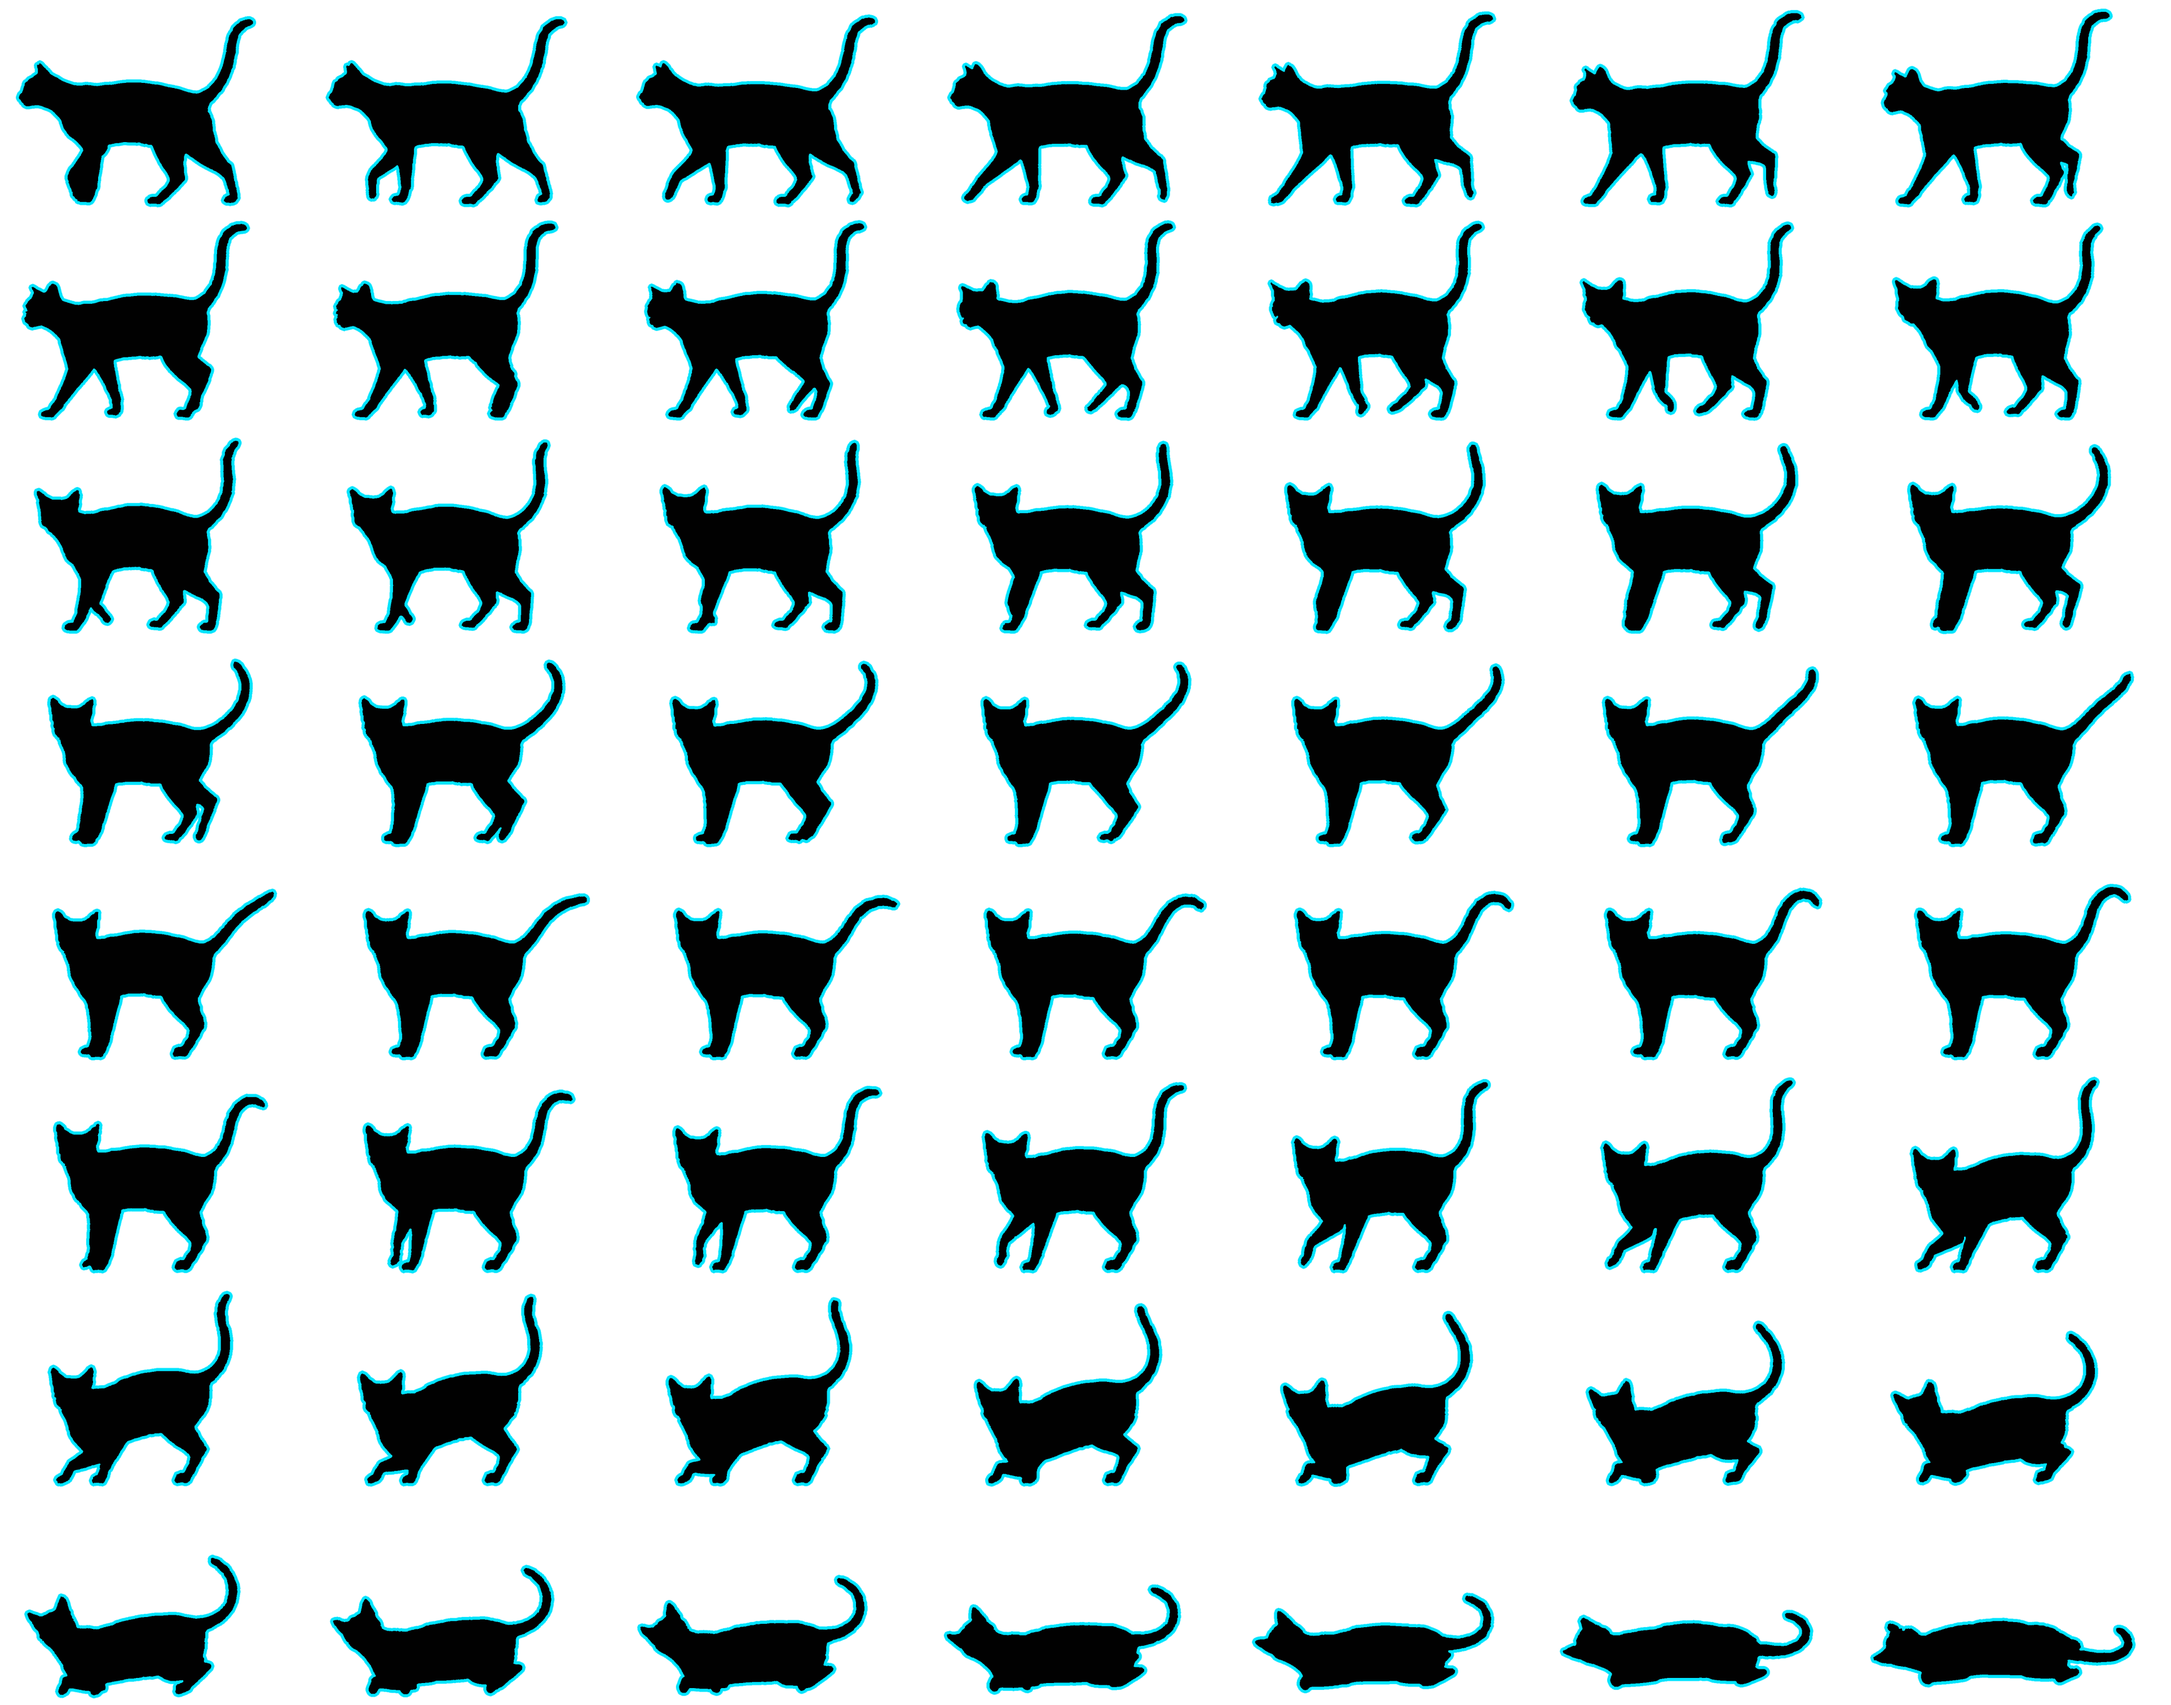
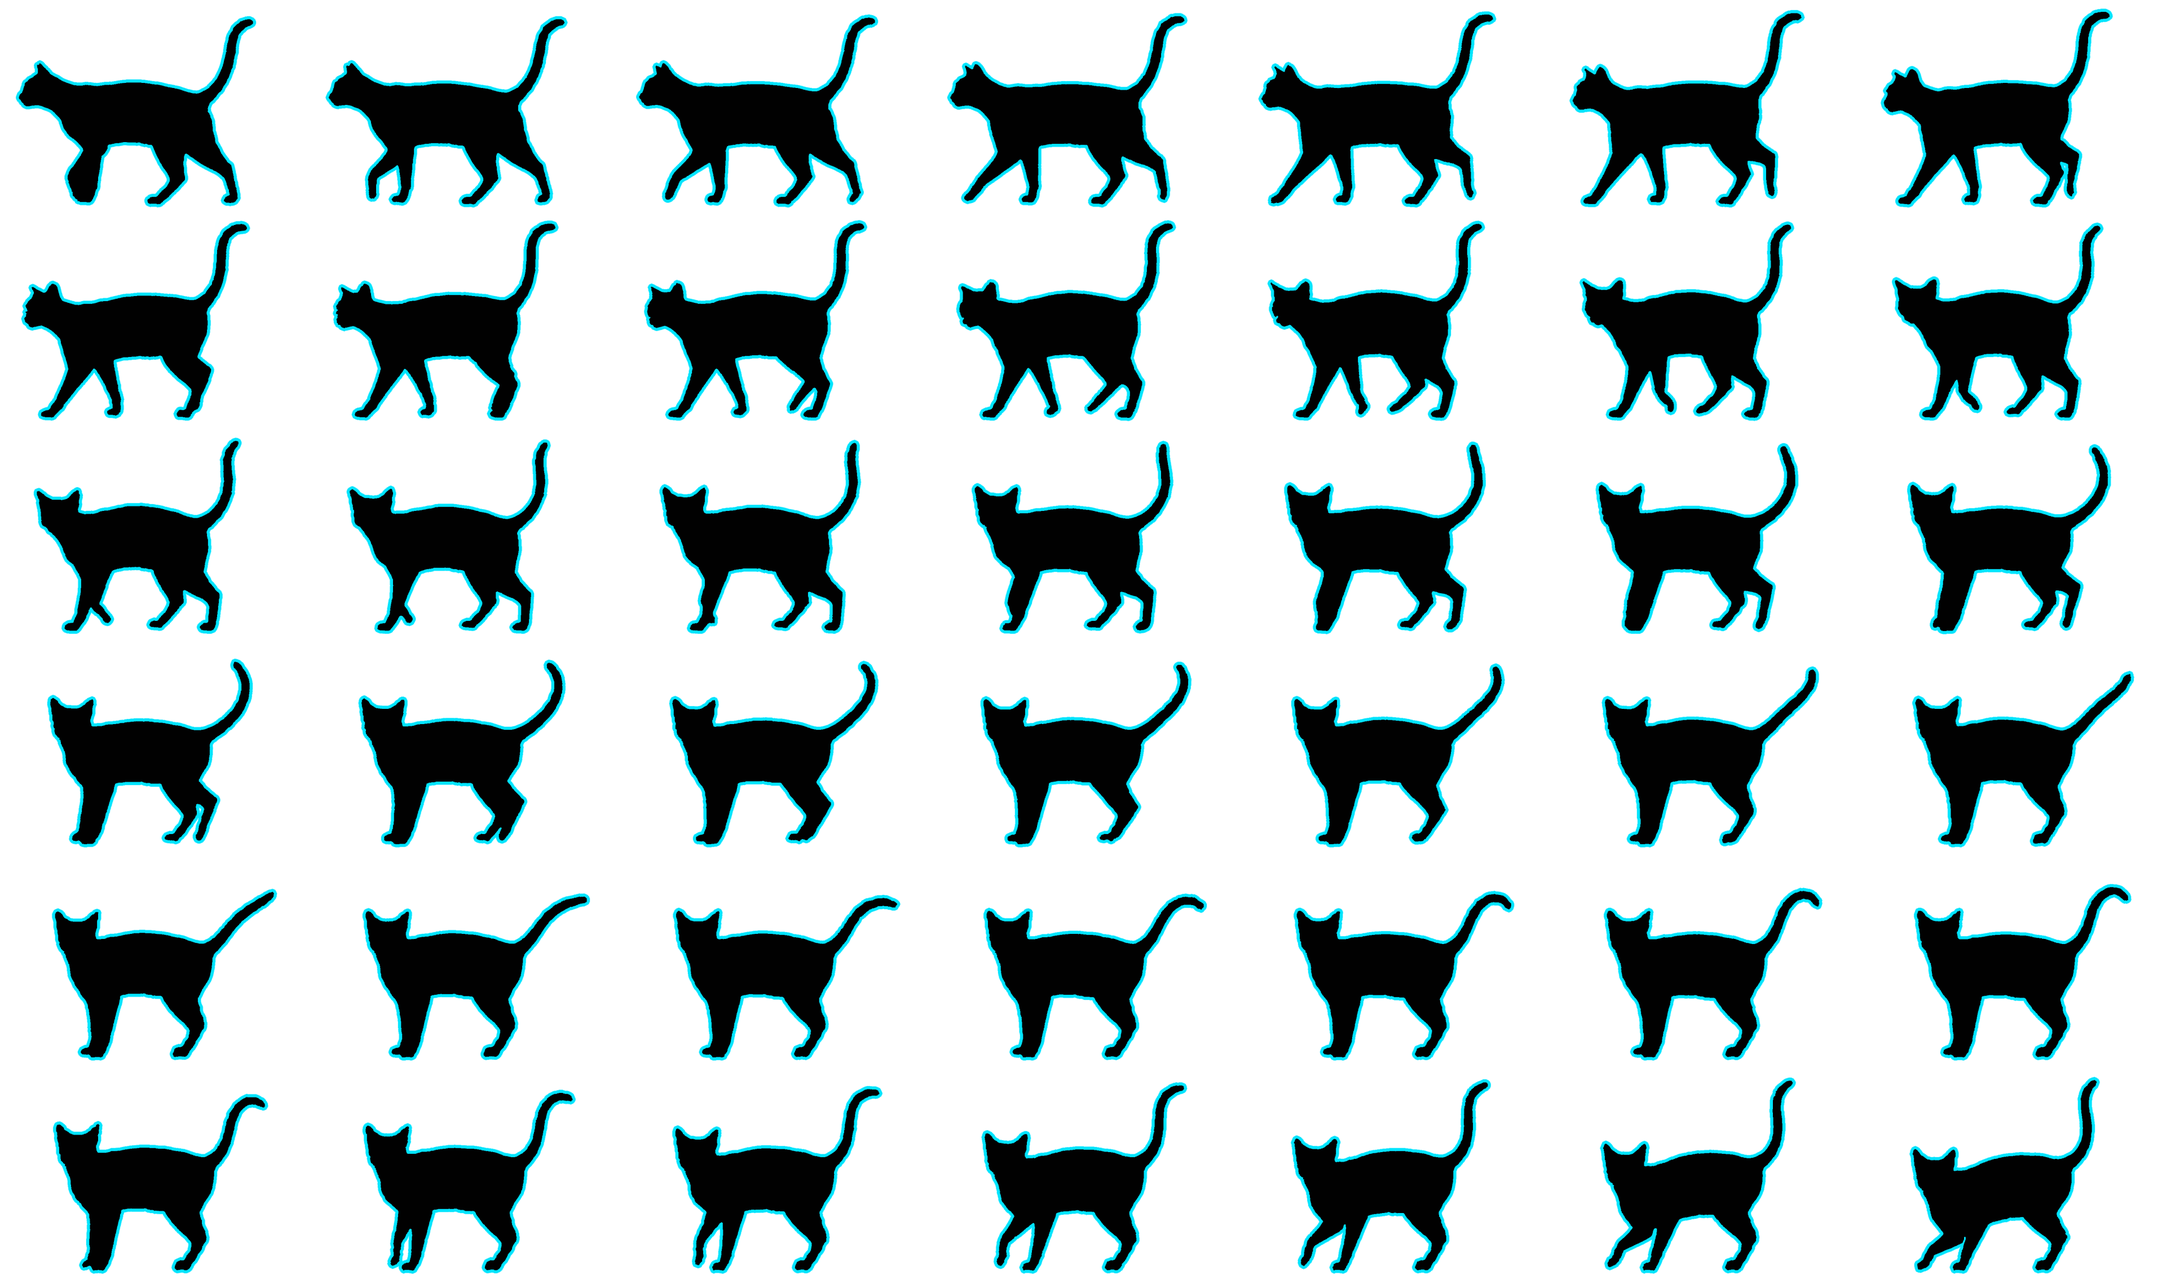
clock: roll clip at full 24fps (9 sheets), v30
Claude-Session: https://claude.ai/code/session_011dJr2cTpcATSR3bPd249g1

diff --git a/clock/big.html b/clock/big.html
@@ -142,17 +142,16 @@ canvas{display:block; position:absolute; inset:0}
   // 立ち止まる動き: 動画のコマ95(歩きのループの2番目と同じ姿勢)〜177(ループの12番目と同じ姿勢)。speed は各コマで進む距離(動画の画素)、stop は完全に止まるコマ
   const CALL = { n: 83, per: 42, cols: 7, cw: 476, ch: 362, scale: 0.6, pad: 8, ox: 323, oy: 89, loopIn: 2, loopOut: 12, stop: 31,
     speed: [11.55,11.55,11.76,11.97,11.97,11.76,11.55,10.92,10.29,9.66,9.45,9.24,9.03,8.61,7.77,6.93,5.67,4.62,4.41,4.62,4.41,4.62,4.62,3.99,3.57,3.15,2.73,2.52,2.1,1.68,1.26,0.84,0.42,0.21,0.0,0.0,0.0,0.0,0.0,0.0,0.0,0.0,0.0,0.0,0.0,0.0,0.0,0.0,0.0,0.0,0.0,0.0,0.21,0.42,1.05,1.68,2.52,3.15,3.99,4.41,5.25,5.88,6.72,7.35,7.98,7.98,8.19,8.61,9.45,10.08,11.34,12.18,12.6,12.81,13.23,13.44,13.86,14.49,14.91,15.12,15.12,15.12,14.91] };
-  // ごろん: 同じ動画の続き。立ち止まり、体を丸め、寝転がって転がり、起き上がって歩き出す(動画のコマ95〜440、346コマ)。寝転がっている間は12コマ/秒に間引いてあるので、cell[n] で「n番目の動画コマ」に使う絵の番号を引く。
+  // ごろん: 同じ動画の続き。立ち止まり、体を丸め、寝転がって転がり、起き上がって歩き出す(動画のコマ95〜440、346コマ)。全コマ(24コマ/秒)入り、9枚のシートに分けてある。
   // 止まるまでの速さは CALL と同じ(同じ動画の前半)、止まっている間は0、最後は STEP まで加速して、歩きのループへ blend コマかけて溶かしてつなぐ
-  const ROLL = { n: 346, per: 56, cols: 7, cw: 550, ch: 378, scale: 0.6, pad: 8, ox: 282, oy: 73, loopOut: 30, stop: 31, blend: 6,
-    cell: [0,1,2,3,4,5,6,7,8,9,10,11,12,13,14,15,16,17,18,19,20,21,22,23,24,25,26,27,28,29,30,31,32,33,34,35,36,37,38,39,40,41,42,43,44,45,46,47,48,49,50,51,52,53,53,54,54,55,55,56,56,57,57,58,58,59,59,60,60,61,61,62,62,63,63,64,64,65,65,66,66,67,67,68,68,69,69,70,70,71,71,72,72,73,73,74,74,75,75,76,76,77,77,78,78,79,79,80,80,81,81,82,82,83,83,84,84,85,85,86,86,87,87,88,88,89,89,90,90,91,91,92,92,93,93,94,94,95,95,96,96,97,97,98,98,99,99,100,100,101,101,102,102,103,103,104,104,105,105,106,106,107,107,108,108,109,109,110,110,111,111,112,112,113,113,114,114,115,115,116,116,117,117,118,118,119,119,120,120,121,121,122,122,123,123,124,124,125,125,126,126,127,127,128,128,129,129,130,130,131,131,132,132,133,133,134,134,135,135,136,136,137,137,138,138,139,139,140,140,141,141,142,142,143,143,144,144,145,145,146,146,147,147,148,148,149,149,150,150,151,151,152,152,153,153,154,154,155,155,156,156,157,157,158,158,159,159,160,160,161,161,162,162,163,163,164,164,165,165,166,166,167,167,168,168,169,169,170,170,171,171,172,172,173,173,174,174,175,175,176,176,177,177,178,178,179,179,180,180,181,181,182,182,183,183,184,184,185,185,186,186,187,187,188,188,189,190,191,192,193,194,195,196,197,198,199,200,201,202,203,204,205,206,207,208,209] };
+  const ROLL = { n: 346, per: 42, cols: 7, cw: 550, ch: 378, scale: 0.6, pad: 8, ox: 282, oy: 73, loopOut: 30, stop: 31, blend: 6, };
   ROLL.speed = CALL.speed.slice(0, 35).concat(new Array(ROLL.n - 35).fill(0));
   for (let i = 0; i < 14; i++) ROLL.speed[ROLL.n - 14 + i] = STEP * (i + 1) / 14;
   [CALL, ROLL].forEach(c => { c.cum = [0]; c.speed.forEach(v => c.cum.push(c.cum[c.cum.length - 1] + v)); });   // 先頭から、そのコマまでに進む距離
   let catOn = get('cat', '1') === '1', catEvery = Number(get('catEvery', '300')) || 300;
   const ROLLP = 0.2;   // ふだんの横切りのうち、ごろんになる割合
   let cat = null, catTimer = 0;
-  const sheets = { walk: null, c1: null, c2: null, r1: null, r2: null, r3: null, r4: null };
+  const NROLL = 9, sheets = { walk: null, c1: null, c2: null, roll: [] };
   const reduceMotion = matchMedia('(prefers-reduced-motion: reduce)').matches;
   const timeKey = () => Math.floor(Date.now() / (secs ? 1000 : 60000));
   function renderLayer(){ ctx = lctx; paint(); ctx = mainCtx; }
@@ -161,7 +160,7 @@ canvas{display:block; position:absolute; inset:0}
     if (cat || !sheets.walk || document.hidden) return;
     clearTimeout(timer);                                   // 猫がいる間は、普段の1秒ごとの描き直しを止める
     cat = { dir: Math.random() < 0.5 ? 1 : -1, t0: performance.now(), last: 0, key: -1 };
-    const rollOk = sheets.r1 && sheets.r2 && sheets.r3 && sheets.r4;
+    const rollOk = sheets.roll.filter(Boolean).length === NROLL;
     if (call && sheets.c1 && sheets.c2) { cat.call = true; cat.xf = call.xf; cat.dir = call.xf < 0.5 ? 1 : -1; }   // 近いほうの端から入ってくる
     if (call && call.roll && rollOk) cat.clip = ROLL;                                                        // 呼ばれて来て、ごろんと寝転がる
     else if (!call && rollOk && Math.random() < ROLLP) {                                                     // ふだんの横切りでも、ときどき途中で寝転がる
@@ -202,8 +201,8 @@ canvas{display:block; position:absolute; inset:0}
         } else if (el < tw + tc) {                                                                  // 2) ゆっくりになって止まり、こちらを見て、また歩き出す(動画のまま)
           const q = (el - tw) * FPS, n = Math.min(K.n - 1, Math.floor(q)), fr = q - Math.floor(q);
           cx = xcs + dir * (K.cum[n] + (K.cum[n + 1] - K.cum[n]) * fr) * kv;
-          const k = K.cell ? K.cell[n] : n;
-          spec = K; img = K === ROLL ? sheets['r' + (1 + Math.floor(k / K.per))] : (k < K.per ? sheets.c1 : sheets.c2); f = k % K.per;
+          const k = n;
+          spec = K; img = K === ROLL ? sheets.roll[Math.floor(k / K.per)] : (k < K.per ? sheets.c1 : sheets.c2); f = k % K.per;
           if (K.blend && n >= K.n - K.blend) { const b = n - (K.n - K.blend); ba = (b + 1) / (K.blend + 1); blendLoop = ((K.loopOut + 1 - (K.blend - b)) % WALK.n + WALK.n) % WALK.n; }   // 最後の数コマは、歩きのループへ溶かす
         } else {                                                                                    // 3) そのまま歩いて出ていく
           const e2 = el - tw - tc;
@@ -224,7 +223,8 @@ canvas{display:block; position:absolute; inset:0}
     if (!catOn || reduceMotion || !sheets.walk) return;
     catTimer = setTimeout(() => { if (catOn && !cat) spawnCat(); if (!cat) scheduleCat(); }, catEvery * 1000 * (0.7 + Math.random() * 0.6));
   }
-  Object.entries({ walk: 'cat-walk.png', c1: 'cat-call1.png', c2: 'cat-call2.png', r1: 'roll1.png', r2: 'roll2.png', r3: 'roll3.png', r4: 'roll4.png' }).forEach(([k, src]) => { const im = new Image(); im.onload = () => { sheets[k] = im; if (k === 'walk') scheduleCat(); }; im.src = src; });
+  Object.entries({ walk: 'cat-walk.png', c1: 'cat-call1.png', c2: 'cat-call2.png' }).forEach(([k, src]) => { const im = new Image(); im.onload = () => { sheets[k] = im; if (k === 'walk') scheduleCat(); }; im.src = src; });
+  for (let i = 0; i < NROLL; i++) { const im = new Image(); im.onload = () => { sheets.roll[i] = im; }; im.src = `roll${i + 1}.png`; }
 
   // フォントが読み込めたら、もう一度ぴったり描き直す
   function loadFonts(){

diff --git a/clock/sw.js b/clock/sw.js
@@ -1,5 +1,5 @@
-const CACHE = 'clock-v29';
-const FILES = ['./', './index.html', './big.html', './cat-walk.png', './cat-call1.png', './cat-call2.png', './roll1.png', './roll2.png', './roll3.png', './roll4.png', './manifest.webmanifest', './icon-180.png', './icon-192.png', './icon-512.png', './icon-maskable-512.png'];
+const CACHE = 'clock-v30';
+const FILES = ['./', './index.html', './big.html', './cat-walk.png', './cat-call1.png', './cat-call2.png', './roll1.png', './roll2.png', './roll3.png', './roll4.png', './roll5.png', './roll6.png', './roll7.png', './roll8.png', './roll9.png', './manifest.webmanifest', './icon-180.png', './icon-192.png', './icon-512.png', './icon-maskable-512.png'];
 const FONT_HOSTS = ['fonts.googleapis.com', 'fonts.gstatic.com'];
 // 更新のとき、ブラウザが持っている古いコピーを使わず、必ずサーバーから取り直す
 self.addEventListener('install', e => e.waitUntil(

diff --git a/clock/index.html b/clock/index.html
@@ -296,7 +296,7 @@ dialog.dlg .times{flex-wrap:wrap}
       </section>
     </div>
     <button class="btn primary" value="close">とじる</button>
-    <p class="ver">バージョン 29</p>
+    <p class="ver">バージョン 30</p>
   </form>
 </dialog>
 </div>
